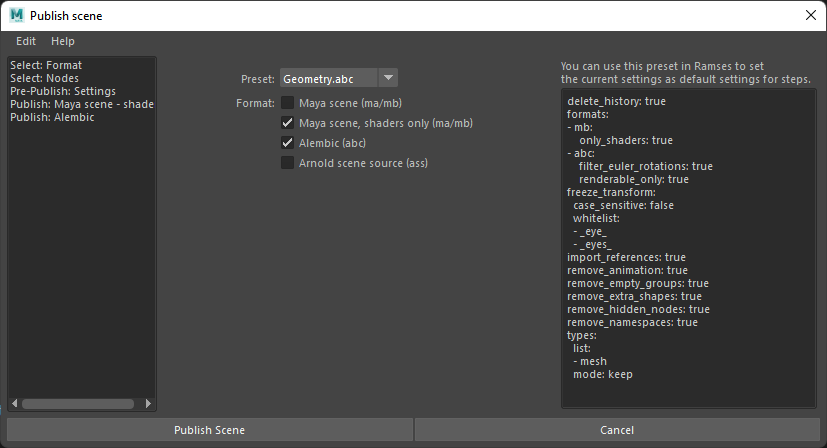
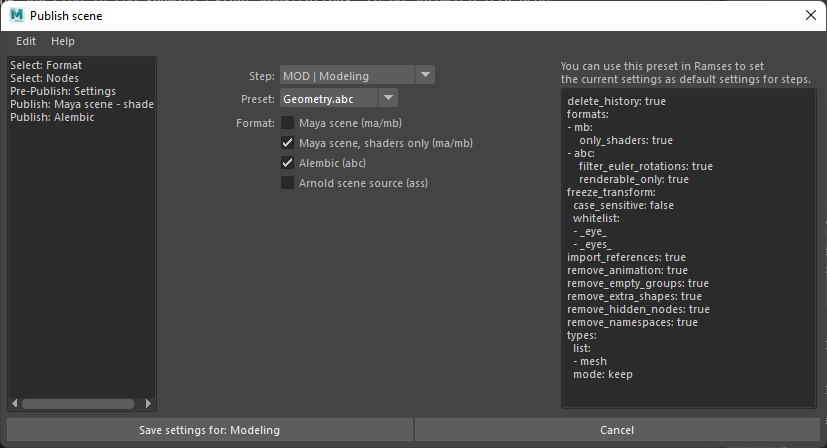
update doc

diff --git a/src-docs/docs/components/addons/maya-publish.md b/src-docs/docs/components/addons/maya-publish.md
@@ -1,0 +1,116 @@
+![META](authors:Nicolas "Duduf" Dufresne;license:GNU-FDL;copyright:2021-2022;updated:2022/06/27)
+
+# The Maya pipeline
+
+With Ramses and its Maya Add-on, the Maya pipeline is easy-to-use but you have access to all parameters when publishing and importing files. Using presets and/or the *Ramses Client Application* you can completely automate the pipeline according to your specific needs.
+
+**▹ Read more about the [pipeline](../../pipeline/pipeline.md).**
+
+**▹ Configure the [pipeline in the *Ramses Client Application*](../../pipeline/pipeline.md).**
+
+## Setting the publishing parameters
+
+Use the ![](../../img/icons/rampublishsettings.png){ style="width:28px"} ***Publish settings*** button from the *Add-on*'s shelf to access all available parameters for publishing in Maya. From this dialog, you can build your own presets, or set some settings as defaults for any specific [step](../../pipeline/pipeline.md) in your [pipeline](../../pipeline/pipeline.md).
+
+![Publish settings: Format](/img/maya/publishsettings_format.png)  
+
+In the first tab, select the step for which your setting the publishing parameters, and optionally select an existing preset.
+
+Presets are stored in a folder inside the Maya module folder. You can save or load a preset with `Edit ► Save preset...` and `Edit ► Load preset...`. When a preset is saved in the default folder, it is listed in the box in this tab.
+
+*Ramses* provides a few presets by default, they're good examples of what you can do.
+
+- `Animation.abc` can be used for publishing animation and cameras as a lightweight alembic file.
+- `Arnold.ass` is a simple preset to publish the selected nodes as an *Arnold Scene Source*.
+- `Geometry.abc` is meant for publishing mesh nodes without animation. Shaders are automatically published separately as a *Maya Binary*.
+- `Rig.ma` can be used to publish rigged characters and props, and more generally any kind of Maya scene, as a *Maya ASCII* file.
+- `Shaders.mb` publishes only the shaders from the selected nodes.
+- `Simple.mb` is a general preset which can be used with any kind of scene.
+
+You can safely delete these presets from the preset folder if you don't need them.
+
+The text area on the right shows the preset as a text. This text can be saved or used directly in the publish settings of any step in the *Ramses Client Application*, to be automatically used when publishing files for the given step. In this case, this settings window will not be shown anymore when publishing files, unless the user checks the *Edit publish settings* box when saving the scene.
+
+If the *Ramses Client Application* is running, you don't necessarily need to use presets; clicking on the `Save settings` button will set the current settings to the selected step. They can then also be [edited directly in the *Ramses Client Application*](../../components/client/steps.md).
+
+This text uses the [*Yaml*](https://yaml.org/) syntax, which can easily be edited manually.
+
+### Pre-Publish settings
+
+Before publishing, *Ramses* can run some checks and clean the scene.
+
+![Pre-Publish](../../img/maya/publishsettings_prebublish.png)
+
+- **Import all references**, to avoid nested references
+- **Remove namespaces**, to simplify node names when importing
+- **Remove all hidden nodes**
+- **Delete all histories**
+- Leave only **a single shape per transform node**. Extra shapes should not be needed.
+- **Remove all empty groups**
+- **Remove all keyframes** and animation
+- **Types**: you can choose to keep (white list) or remove (black list) specific node types.  
+  To check the types of the nodes to complete the list, use the Mel/Python command `nodeType`.
+- **Freeze transformations of all the nodes**, except those containing specific strings in their name.
+
+### Maya scene
+
+![](../../img/maya/publishsettings_maya.png)
+
+- Select either ***Binary*** or ***ASCII file***.
+- **All hidden node visibilities** can be automatically **locked**.
+- **All transformations can be locked**.
+- You can select **how joints will be displayed** in the published file.
+
+### Maya scene - Shader library
+
+![](../../img/maya/publishsettings_mayashaders.png)
+
+- Select either ***Binary*** or ***ASCII file***.
+
+When publishing a shader library, *Ramses* keeps the list of nodes the shaders are applied to, and is able to re-assign them when importing the library in any scene.
+
+### Alembic
+
+![](../../img/maya/publishsettings_alembic.png)
+
+- You can choose to **keep only renderable nodes** and remove all other shapes.
+- Use the **handles** control to add some time before and after the scene's time range.
+- You can change the **frame step** to make the exported file lighter or more detailed (e.g. for precise motion blur).
+- You can automatically **filter Euler rotations**.
+
+### Arnold Scene Source
+
+There are no options for this format.
+
+## Importing assets
+
+When importing or replacing assets, there are a few options. The same way publish settings can use presets or be set directly in the *Ramses Client Application*, *Ramses* will look for presets and default settings when importing the assets.
+
+![](../../img/maya/importsettings_preset.png)
+
+In the first tab, you can optionally select an existing preset.
+
+Presets are stored in a folder inside the Maya module folder. You can save or load a preset with `Edit ► Save preset...` and `Edit ► Load preset...`. When a preset is saved in the default folder, it is listed in the box in this tab.
+
+*Ramses* provides a few presets by default, they're good examples of what you can do.
+
+- `Alembic - Reference and shaders` imports an alembic file as a reference, along with *Maya* shader libraries.
+- `Alembic and shaders` imports an alembic file, and *Maya* shader libraries as a reference.
+- `Maya - Lock transform` imports a Maya file, and locks the transformations of the imported asset.
+- `Maya - Reference` references a Maya file.
+- `Maya` simply imports a Maya file.
+
+You can safely delete these presets from the preset folder if you don't need them.
+
+### Format settings
+
+For each format to import, you can set some settings.
+
+![](../../img/maya/importsettings_format.png)
+
+The text on the right can be copied to any [pipe type](../../components/client/pipetypes.md) in the *Ramses Client Application*. When importing an asset, *Ramses* will first look for these settings, and if they're found, it won't show the settings dialog unless the user checked the box `Edit import options` when importing the asset.
+
+- Files can be imported as **references**.
+- **All transformations** of all nodes can be *locked*.
+- When importing a shader library, **shaders can automatically be applied** on the selected nodes.
+  *Ramses* will use the node names to apply the shaders: the selected nodes must have the *exact same name* as the nodes in the scene used to publish the shaders.

diff --git a/src-docs/docs/components/addons/maya.md b/src-docs/docs/components/addons/maya.md
@@ -1,4 +1,4 @@
-![META](authors:Nicolas "Duduf" Dufresne;license:GNU-FDL;copyright:2021;updated:2021/07/04)
+![META](authors:Nicolas "Duduf" Dufresne;license:GNU-FDL;copyright:2021;updated:2022/06/27)
 
 # ![](../../img/icons/maya_sd.svg){: style="width:48px;" } Ramses Maya Add-on
 
@@ -12,7 +12,7 @@ This Add-on can be used with or without being connected to the *Ramses Daemon* (
 
 ## Installation
 
-- [Download](https://github.com/Rainbox-dev/Ramses-Maya/archive/refs/heads/main.zip) and unzip the module.  
+- [Download](https://rxlaboratory.org/download-ramses/) and unzip the module.  
     To quickly deploy the module on several workstations, choose a shared location; the module can then be shared with all workstations and updated at once.
 - Edit `Ramses.mod` with a text editor, and replace the path in the first line with the absolute path where you've unzipped the module.
 
@@ -193,24 +193,7 @@ The publication of the scene is done in several steps:
 3. One or several files are published, according to the settings.
 4. *Ramses* then calls any potential publish function registered by the pipeline tools or an extension of the Add-On.
 
-### Publish format
-
-![Publish settings: Format](/img/maya/publishsettings_format.png)  
-*This is the settings window as it is shown if no settings were given by the* Ramses Daemon*.*
-
-You can set the file format in the first tab, or choose a preset to automatically load predefined settings.
-
-Presets are stored in a folder inside the Maya module folder. You can save or load a preset with `Edit ► Save preset...` and `Edit ► Load preset...`.
-
-The text area on the right shows the preset as a text. This text can be copied and pasted in the publish settings of any step in the *Ramses Client Application*, to be automatically used when publishing files for the given step. In this case, this settings window will not be shown anymore, unless the user checks the *Edit publish settings* box when saving the scene.
-
-This text uses the [*Yaml*](https://yaml.org/) syntax, which can easily be edited manually.
-
-### Publish nodes
-
-![Publish settings: Nodes](/img/maya/publishsettings_nodes.png)  
-
-Before publishing, you can select the nodes to publish or not, and rename them.
+**▹ Read the [publishing guide for *Maya*](maya-publish.md) for more information about the *Maya* pipeline.**
 
 ## ![](../../img/icons/preview.svg){ style="width:32px"} Preview
 
@@ -252,7 +235,7 @@ When rendering the playblasts, *Ramses* does not only renders them as usual *May
 - Use `[S]` for frame-by-frame playing.
 - Hit `[Q]` to quickly quit the player.
 
-## ![](../../img/icons/saveas.svg){ style="width:32px"} Save As
+## ![](../../img/icons/ramsaveas.png){ style="width:32px"} Save As
 
 The *Save As* command can be used to create a new Asset or Shot, or save any other new file, while automatically naming and locating it.
 
@@ -306,6 +289,32 @@ import maya.cmds as cmds
 cmds.ramPublishTemplate()
 ```
 
+## ![](../../img/icons/ramsetupscene.png){ style="width:32px"} Setup scene
+
+The Setup scene command runs some checks on the current scene and makes sure everything works according to the current project.
+
+![](/img/maya/scenesetup.png)
+
+Ramses will automatically add the `Ramses_Publish` and `Ramses_DelOnPublish` sets if they're missing, and checks these values to optionally fix them:
+
+- The frame rate (if the current scene is a Shot)
+- The duration (if the current scene is a Shot)
+- The rendering resolution
+- The camera used in the render settings
+- The name of the selected camera
+
+These checks are automatically run when the scene is saved.
+
+The *Mel* and *Python* corresponding command is: `ramSetupScene`.
+
+```py
+# Python
+import maya.cmds as cmds
+
+# Checks the scene settings and shows a dialog if something is wrong
+cmds.ramSetupScene()
+```
+
 ## ![](../../img/icons/open.svg){ style="width:32px"} Open, ![](../../img/icons/import.svg){ style="width:32px"} Import, ![](../../img/icons/replace.svg){ style="width:32px"} Replace
 
 The *Open and Import* command automatically finds available scenes from your projects.
@@ -336,6 +345,25 @@ cmds.ramOpen(i=true)
 cmds.ramOpen(r=true)
 ```
 
+## ![](../../img/icons/ramupdate.png){ style="width:32px"} Update
+
+Use the Update command to update (or downgrade) the assets included in the scene.
+
+![](/img/maya/update.png)
+
+For each asset, you can select which version to use in the scene and automatically replace it. The update command is able to update to a newer or downgrade to a previous version.
+
+The *Mel* and *Python* corresponding command is: `ramUpdate`.
+
+
+```py
+# Python
+import maya.cmds as cmds
+
+# Shows the update dialog
+cmds.ramUpdate()
+```
+
 ## ![](../../img/icons/restoreversion.svg){ style="width:32px"} Retrieve Version
 
 The *Retrieve version* command can be used to check and restore a previous version of the current scene.
@@ -351,6 +379,10 @@ import maya.cmds as cmds
 # Shows the retrieve version dialog
 cmds.ramRetrieveVersion()
 ```
+
+## ![](../../img/icons/rampublishsettings.png){ style="width:32px"} Publish Settings
+
+**▹ Read the [publishing guide for *Maya*](maya-publish.md) for more information about the *Maya* pipeline.**
 
 ## ![](../../img/icons/gotosettings.svg){ style="width:32px"} Settings
 

diff --git a/src-docs/docs/components/addons/maya-extend.md b/src-docs/docs/components/addons/maya-extend.md
@@ -87,7 +87,7 @@ Feel free to try and use it, and study it. As explained just before, all the ext
 
 - [`Ramses.publishScripts`](../../dev/add-ons-reference/ramses.md) contains the functions to be called when a scene is being published.
 
-When *Ramses* publishes a scene, it first copies the scene file to the publish folder, and then calls all the scripts listed there. Each callback you add to this list must take three arguments. Read the [Scripting API Reference](../../dev/add-ons-reference/ramses.md) for more information.
+When *Ramses* publishes a scene, it calls all the scripts listed there. There already is a script which provides the default implementation; you can either remove it to disable it completely, or just add your own which will be run after (or before if you insert it at the beginning of the list). Each callback you add to this list must take a few arguments. Read the [Scripting API Reference](../../dev/add-ons-reference/ramses.md) for more information.
 
 - [`Ramses.statusScripts`](../../dev/add-ons-reference/ramses.md) contains the functions to be called when a scene status changes.
 
@@ -95,9 +95,9 @@ When *Ramses* updates a status, it first copies the scene file to the version fo
 
 - [`Ramses.importScripts`](../../dev/add-ons-reference/ramses.md) contains the functions to be called when the user selects an item (shot or asset) to import.
 
-By default, if and only if the list is empty, *Ramses* imports the selected item in the current scene, in a group named after the item, and in another group named after the asset group if it is an asset. Adding new callbacks to the list will de-activate this default behaviour so you can use your own methods for importing items. Each callback you add to this list must take two arguments. Read the [Scripting API Reference](../../dev/add-ons-reference/ramses.md) for more information.
+There already is a script which provides the default implementation for importing items; you can either remove it to disable it completely, or just add your own which will be run after (or before if you insert it at the beginning of the list). . Each callback you add to this list must take a few arguments. Read the [Scripting API Reference](../../dev/add-ons-reference/ramses.md) for more information.
 
-There are two ways to register your methods: by using a *Maya* command, or by [forking](https://github.com/Rainbox-dev/Ramses-Maya) the provided Add-On to add your functions.
+There are two ways to register your methods: by using a *Maya* command, or by [forking](https://github.com/RxLaboratory/Ramses-Maya) the provided Add-On to add your functions.
 
 Once the callbacks have been registered, they are automatically called when the user interacts with the add-on and wants to update/import/publish an item.
 
@@ -118,6 +118,11 @@ To register your callbacks, you just have to append them in the corresponding `R
 from ramses import Ramses
 # Now we just have to add the callbacks
 ramses = Ramses.instance()
+# First, remove callbacks provided by the Ramses addon,
+# to replace them with our own
+ramses.publishScripts = []
+ramses.importScripts = []
+ramses.statusScripts = []
 # A publish method
 ramses.publishScripts.append( aPublishMethod )
 # An import method
@@ -241,6 +246,12 @@ from ramses import Ramses
 
 # Get the ramses instance
 ramses = Ramses.instance()
+
+# First, remove callbacks provided by the Ramses addon,
+# to replace them with our own
+ramses.publishScripts = []
+ramses.importScripts = []
+ramses.statusScripts = []
 
 # Add the callbacks to the publish list
 ramses.publishScripts.append( publishAsset )

diff --git a/src-docs/docs/dev/add-ons-reference/ramses.md b/src-docs/docs/dev/add-ons-reference/ramses.md
@@ -23,9 +23,9 @@ Read the section entitled *Callbacks* below (and see the *Examples*) for more in
 
 | Attribute | Type | Default | Description |
 | --- | --- | --- | --- |
-| **importScripts** | *list* | `[]` | A list of scripts/functions to be triggered when `Ramses.instance().importItem()` is called.<br />If you're using one of the provided Add-ons, you can add your own callbacks to this list so they're run when the user asks to import an item. |
-| **publishScripts** | *list* | `[]` | A list of scripts/functions to be triggered when `Ramses.instance().publish()` is called.<br />If you're using one of the provided Add-ons, you can add your own callbacks to this list so they're run when the user publishes the current file from the host application. |
-| **replaceScripts** | *list* | `[]` | A list of scripts/functions to be triggered when `Ramses.instance().replaceItem()` is called.<br />If you're using one of the provided Add-ons, you can add your own callbacks to this list so they're run when the user asks to import an item. |
+| **importScripts** | *list* | `[]` | A list of scripts/functions to be triggered when `Ramses.instance().importItem()` is called.<br />If you're using one of the provided Add-ons, you can add your own callbacks to this list so they're run when the user asks to import an item.<br />Note: official *Ramses Add-ons* will add an item to this list to provide a default implementation. If you're extending an existing add-on, you can reset the list or insert/append your own methods to keep the default behavior. |
+| **publishScripts** | *list* | `[]` | A list of scripts/functions to be triggered when `Ramses.instance().publish()` is called.<br />If you're using one of the provided Add-ons, you can add your own callbacks to this list so they're run when the user publishes the current file from the host application.<br />Note: official *Ramses Add-ons* will add an item to this list to provide a default implementation. If you're extending an existing add-on, you can reset the list or insert/append your own methods to keep the default behavior. |
+| **replaceScripts** | *list* | `[]` | A list of scripts/functions to be triggered when `Ramses.instance().replaceItem()` is called.<br />If you're using one of the provided Add-ons, you can add your own callbacks to this list so they're run when the user asks to import an item.<br />Note: official *Ramses Add-ons* will add an item to this list to provide a default implementation. If you're extending an existing add-on, you can reset the list or insert/append your own methods to keep the default behavior. |
 | **statusScripts** | *list* | `[]` | A list of scripts/functions to be triggered when `Ramses.instance().updateStatus()` is called.<br />If you're using one of the provided Add-ons, you can add your own callbacks to this list so they're run when the user changes the current status of an asset / shot from the host application. |
 | **userScripts** | *dict* or *object* | `{}` | This *dict* or *object* is here for your convenience, to make it easy to register and call any method from anywhere you've imported Ramses without having to import the file containing the method. Just register with `Ramses.instance().userScripts["TheFunctionName"] = aFunction` and call the method with `Ramses.instance().userScripts["TheFunctionName"](some, args)`. |
 

diff --git a/src-docs/docs/index.md b/src-docs/docs/index.md
@@ -1,6 +1,6 @@
-![META](authors:Nicolas "Duduf" Dufresne;license:GNU-FDL;copyright:2021;updated:2021/08/03)
+![META](authors:Nicolas "Duduf" Dufresne;license:GNU-FDL;copyright:2021-2022;updated:2022/06/27)
 
-# Ramses - The Rainbox Asset Management System
+# Ramses - The Rx Asset Management System
 
 !!! warning
     **Ramses is still under active development**, and this documentation is still being written.  
@@ -192,7 +192,7 @@ This program is free software; you can redistribute them and/or modify them unde
 
 ### Icons and other graphical elements
 
-All graphical elements, especially icons, are from [***RxUI***](http://rxui-docs.rainboxlab.org) by Nicolas Dufresne and [RxLaboratory](https://rainboxlab.org) are licensed under [CC BY-NC-SA 4.0](https://creativecommons.org/licenses/by-nc-sa/4.0/).
+All graphical elements, especially icons, are from [***RxUI***](http://rxui.rxlab.guide) by Nicolas Dufresne and [RxLaboratory](https://rxlaboratory.org) are licensed under [CC BY-NC-SA 4.0](https://creativecommons.org/licenses/by-nc-sa/4.0/).
 
 <span style="font-size:0.75em;">**Copyright (C) 2021 Nicolas Dufresne and Contributors.**
 

diff --git a/src-docs/docs/credits.md b/src-docs/docs/credits.md
@@ -4,7 +4,7 @@
 
 Ramses, which is and stays free, could not exist without [**your support**](http://donate.rxlab.info) and **contributions**. **Many thanks to all people who made this possible**.
 
-Copyright © 2021 Nicolas Dufresne, RxLaboratory and Contributors. All Rights Reserved - https://rxlaboratory.org
+Copyright © 2021-2022 Nicolas Dufresne, RxLaboratory and Contributors. All Rights Reserved - https://rxlaboratory.org
 
 Special thanks to [all the supporters of Duduf on Patreon](https://patreon.com/duduf).
 
@@ -28,7 +28,7 @@ Special thanks to [all the supporters of Duduf on Patreon](https://patreon.com/d
 - Mickaël Gantois
 - Philippe Meis
 - Camilo José Rivera Varona
-- Rubika - Supinfocom & the Promotheus
+- Rubika - Supinfocom, the Promotheus & the Promhub
 
 ### Translations
 

diff --git a/src-docs/docs/dev/add-ons-reference/index.md b/src-docs/docs/dev/add-ons-reference/index.md
@@ -2,7 +2,7 @@
 
 # Scripting API reference
 
-[*Rainbox Laboratory*](https://rainboxlab.org) provides a reference implementation of the API in *Python* and *Adobe ExtendScript*.
+[*RxLaboratory*](https://rxlaboratory.org) provides a reference implementation of the API in *Python* and *Adobe ExtendScript*.
 
 Other APIs may be developped, in which case all these APIs on all programming/scripting language should implement this reference, with the same classes, attributes and methods.
 
